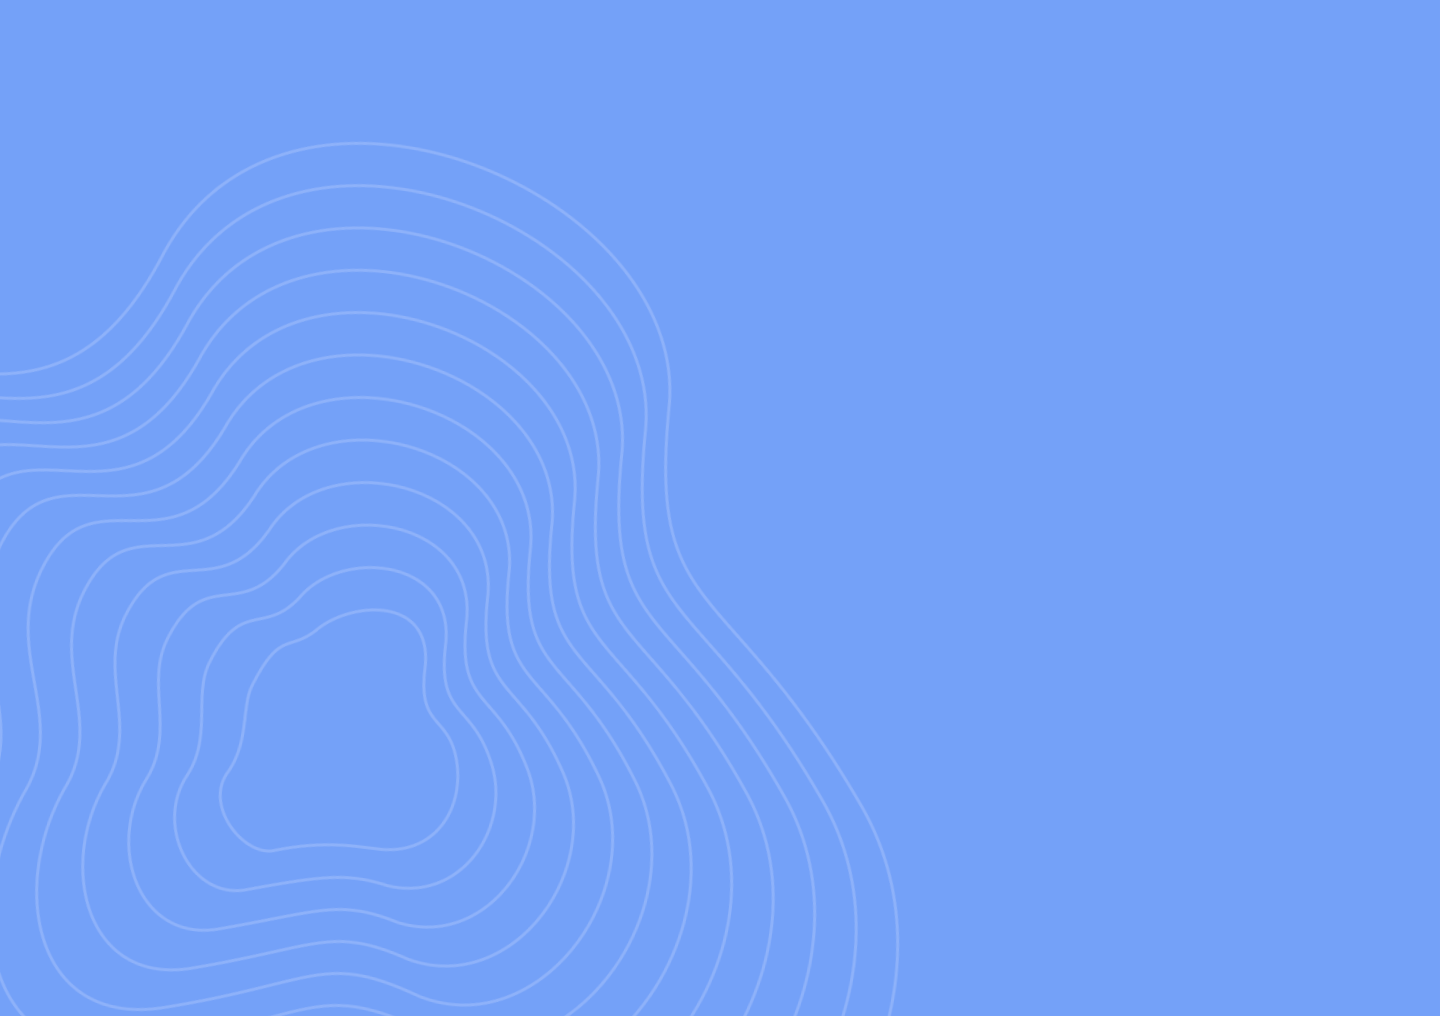
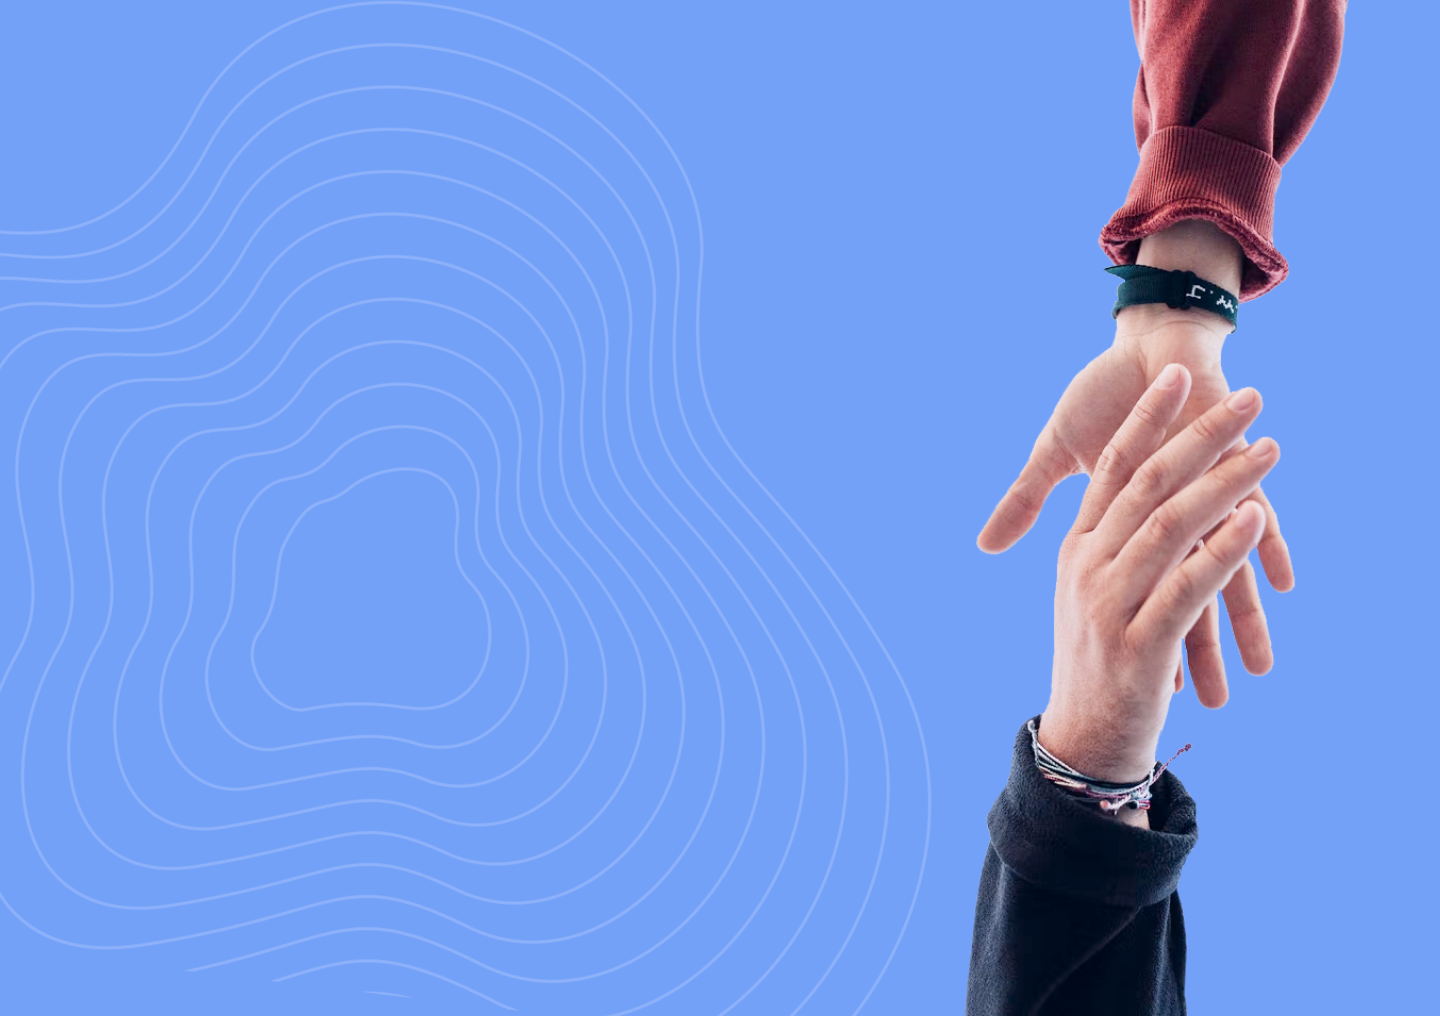
add booking form

diff --git a/src/components/Banner/Banner.jsx b/src/components/Banner/Banner.jsx
@@ -1,30 +1,34 @@
 import React from 'react';
-import Hands from '../../assets/images/Hands.png';
 import {BannerStyled} from "./Banner.styled";
 import Button from "../ui/Button";
 import {Link} from "react-router-dom";
+import Hands from "../../assets/images/Hands.png";
+
 
 const Banner = () => {
     return (
         <BannerStyled>
             <div className="banner-wrapper">
-                <div>
-                    <h1>Your reliable tool to find Therapists online</h1>
-                    <h4>- Book an online or in person consultation within few steps.</h4>
-                    <h4>- See availabilities and background of any specialist.</h4>
-                    <h4>- Renew your prescriptions.</h4>
-                    <h4>- Take advantage of our database with useful resources.</h4>
-                </div>
-                <div className="banner-buttons">
-                    <div>
-                        <Link to="/doctors">
-                            <Button>Match with doctor</Button>
-                        </Link>
+                <div style={{color: 'white'}} className="banner-wrapper__text">
+                    <h1 >Your reliable tool to find Therapists online</h1>
+                    <p>- Book an online or in person consultation within few steps.</p>
+                    <p>- See availabilities and background of any specialist.</p>
+                    <p>- Renew your prescriptions.</p>
+                    <p>- Take advantage of our database with useful resources.</p>
+                    <div className="banner-buttons">
+                        <div>
+                            <Link to="/doctors">
+                                <Button>Match with doctor</Button>
+                            </Link>
+                        </div>
+                        <div>
+                            <Button>Discover More</Button>
+                        </div>
                     </div>
-                    <div>
-                        <Button>Discover More</Button>
-                    </div>
                 </div>
+            </div>
+            <div className={"banner-wrapper__image"}>
+                <img src={Hands} alt={"alt"}/>
             </div>
         </BannerStyled>
     );

diff --git a/src/Scenes/Doctors/Doctors.jsx b/src/Scenes/Doctors/Doctors.jsx
@@ -7,6 +7,7 @@ import MainLayout from "../../Layout/MainLayout";
 import {DoctorsStyled} from "./Doctors.styled";
 import Search from "../../components/Search/Search";
 import SideBar from "../../components/SideBar/Filter";
+import SideLayout from "../../Layout/SideLayout";
 
 
 const Doctors = () => {
@@ -81,14 +82,13 @@ const Doctors = () => {
     }
 
     const filterBySpec = (selectedSpec, event) => {
-
             setSelectedSpec(selectedSpec);
 
     }
 
 
     return (
-        <MainLayout>
+        <SideLayout>
             <DoctorsStyled>
                 <div className="sidebar-wrapper">
                     <div className="sidebar">
@@ -97,18 +97,23 @@ const Doctors = () => {
                         </SideBar>
                     </div>
                     <div className="sidebar__content">
-                        <Sorting value={selectedSort}
-                                 onChange={sortDoctors}
-                                 defaultValue="Sort By"
-                                 options={sortingOption}/>
-                        {
-                            sortedAndSearchDoctors.length ? <DoctorList doctors = {sortedAndSearchDoctors}/> : <h2>Not Found</h2>
-                        }
+                        <div className="list-wrapper">
+                            <div className="list-filter">
+                                <h3>Contact Therapists around you</h3>
+                                <Sorting value={selectedSort}
+                                         onChange={sortDoctors}
+                                         defaultValue="Sort By"
+                                         options={sortingOption}/>
+                            </div>
+                            {
+                                sortedAndSearchDoctors.length ? <DoctorList doctors = {sortedAndSearchDoctors}/> : <h2>Not Found</h2>
+                            }
+                        </div>
                         <Pagination page={page}  totalPages = {totalPages} changePage={changePage}/>
                     </div>
                 </div>
             </DoctorsStyled>
-        </MainLayout>
+        </SideLayout>
     );
 };
 

diff --git a/src/Scenes/DoctorPage/DoctorPage.jsx b/src/Scenes/DoctorPage/DoctorPage.jsx
@@ -3,18 +3,22 @@ import MainLayout from "../../Layout/MainLayout";
 import {generatePath, Link, useHistory, useNavigate, useParams} from "react-router-dom";
 
 import {fetchDoctorsList} from "../../api/doctorsApi";
-import WhiteButton from "../../components/ui/WhiteButton";
-import BlueButton from "../../components/ui/BlueButton";
 import {FontAwesomeIcon} from "@fortawesome/react-fontawesome";
 import {faStar} from "@fortawesome/free-solid-svg-icons";
-import {DoctorsStyled} from "../Doctors/Doctors.styled";
 import {DoctorPageStyled} from "./DoctorPage.styled";
+import {Button, Space, DatePicker, Modal, TimePicker, Input, Result} from "antd";
+import moment from "moment";
+import AppointmentModal from "../../components/AppointmentModal/AppointmentModal";
+
 
 const arrowRight = <FontAwesomeIcon icon={faStar} />;
 
 const DoctorPage = () => {
     const {id} = useParams();
-    const [doctorPage,setDoctorPage] = useState('')
+    const [doctorPage,setDoctorPage] = useState('');
+    const [showCalendar, setShowCalendar] = useState(false);
+
+
     useEffect(() => {
         async function fetchDoctor() {
             const res = await fetchDoctorsList();
@@ -24,7 +28,6 @@ const DoctorPage = () => {
         fetchDoctor();
     }, [id]);
 
-    console.log(doctorPage)
     return (
         <MainLayout>
             <DoctorPageStyled className={"doctor-wrapper"}>
@@ -43,7 +46,8 @@ const DoctorPage = () => {
                     <div className="doctor__text">
                         <h2>{doctorPage.firstName} {doctorPage.lastName}</h2>
                         <div className="doctor__btns">
-                            <BlueButton>Book Appointment</BlueButton>
+                                <Button onClick={() => setShowCalendar(true)}>Book Appointment</Button>
+                                <AppointmentModal visible={showCalendar} onCancel = {() => setShowCalendar(false)}/>
                         </div>
                         <div className={"doctor__description"}>
                             <p>

diff --git a/src/components/AppointmentModal/AppointmentModal.jsx b/src/components/AppointmentModal/AppointmentModal.jsx
@@ -1,0 +1,50 @@
+import React, {useState} from 'react';
+import {Button, DatePicker, Input, Modal, Space, TimePicker} from "antd";
+import moment from "moment";
+import {Formik,Field, Form} from "formik";
+import errors from "babel-loader/lib/Error";
+import touched from "babel-loader/lib/Error";
+
+
+const AppointmentModal = ({visible, onCancel}) => {
+    const [dateSelected, setDateSelected] = useState('');
+    const [timeSelected, setTimeSelected] = useState('');
+    const [notes, setNotes] = useState('');
+
+    const appointment = {
+        date: dateSelected,
+        time: timeSelected,
+        notes: notes
+    }
+
+    function sendAppointment(){
+
+    }
+    return (
+        <Modal visible={visible} footer={null} title={"Book Appointment"} onCancel={() => onCancel()}>
+            <Formik>
+                <Form>
+                    <Space direction={"vertical"}>
+                        <label>Select Date of your appointment</label>
+                        <DatePicker onChange = {(date, dateString) => (
+                            setDateSelected(dateString)
+                        )}/>
+                        <label>Select Time of your appointment</label>
+                        <TimePicker.RangePicker
+                            defaultOpenValue={moment('00:00:00', 'HH:mm:ss')}
+                            onChange={(time, timeString) => (
+                                setTimeSelected(timeString)
+                            )}/>
+                        <label>Additional Notes</label>
+                        <Input.TextArea />
+                        <Button onClick={() =>
+                            (console.log("click"))
+                        }>Submit</Button>
+                    </Space>
+                </Form>
+            </Formik>
+        </Modal>
+    );
+};
+
+export default AppointmentModal;

diff --git a/src/Layout/SideLayout.jsx b/src/Layout/SideLayout.jsx
@@ -6,24 +6,14 @@ import Filter from "../components/SideBar/Filter";
 
 const StyledSideLayout = styled.div`
   background-color:  #f5f5f5;
-
+  
+  
   .sidebar-wrapper {
     display: grid;
-    grid-column-gap: 20px;
-    grid-template-columns: 1fr 3fr;
-    grid-template-areas: 
-    "header  header"
-    "sidebar content"
-    "footer  footer";
   }
   .sidebar{
     grid-area: sidebar;
     background-color: white;
-  }
-  
-  .sidebar__content {
-    grid-area: content;
-    padding: 20px;
   }
   
 `
@@ -33,7 +23,6 @@ const SideLayout = (props) => {
         <StyledSideLayout>
             <Header/>
             <div className="sidebar-wrapper">
-                <Filter/>
                 <div className="sidebar__content">
                     {props.children}
                 </div>

diff --git a/src/components/Banner/Banner.styled.jsx b/src/components/Banner/Banner.styled.jsx
@@ -2,25 +2,32 @@ import styled from "styled-components";
 import background from "../../assets/images/background.png"
 
 export const BannerStyled = styled.div`
-  background-image: url(${background});
-  background-size: contain;
+  background-color: #74A1F8;
   color: white;
   display: flex;
-  justify-content: space-around;
+  justify-content: center;
+  width: 100%;
+  
+  h1 {
+    color: white;
+  }
   
   .banner-buttons {
     display: flex;
     gap: 24px;
-    padding-top: 95px;
   }
   
   .banner-wrapper {
     padding: 20px 30px;
     display: flex;
-    flex-direction: column;
+    flex-direction: row;
+  }
+  .banner-wrapper  {
+    font-size: 18px;
   }
   
   img {
-    max-height: 100%;
+    height: 400px;
+    object-fit: contain;
   }
 `

diff --git a/src/components/Questions/Questions.styled.jsx b/src/components/Questions/Questions.styled.jsx
@@ -1,12 +1,8 @@
 import styled from "styled-components";
 
 export const QuestionsStyled = styled.div`
-  display: flex;
-  flex-direction: column;
-  justify-content: center;
-  align-items: center;
   padding: 30px 0;
-  overflow: hidden;
+  
   .list__title {
     text-align: center;
     padding: 20px 0;
@@ -20,7 +16,6 @@ export const QuestionsStyled = styled.div`
     display: flex;
     flex-direction: column;
     justify-content: center;
-    align-items: stretch;
     width: 800px;
     padding-bottom: 30px;
   }
@@ -46,7 +41,7 @@ export const QuestionsStyled = styled.div`
   }
 
   .item-content {
-    overflow: hidden;
+    overflow: auto;
     max-height: 0;
     transition: all 0.5s cubic-bezier(0, 1, 0, 1);
     box-sizing: border-box;

diff --git a/src/components/SideBar/Filter.jsx b/src/components/SideBar/Filter.jsx
@@ -2,7 +2,7 @@ import React, {useState} from 'react';
 import {FilterStyled} from "./Filter.styled";
 
 
-const SideBar = ({onChange}) => {
+const SideBar = (props,{onChange}) => {
 
     const [selectedFilter, setSelectedFilter] = useState(false);
     const [spec, setSpec] = useState('');
@@ -55,6 +55,7 @@ const SideBar = ({onChange}) => {
                 <h3>Filters</h3>
                 <div className="sidebar-filter__list">
                     <div className="sidebar__search">
+                        {props.children}
                     </div>
                     <div className="sidebar-filter__profile">
                         <h4>Specification</h4>

diff --git a/src/Layout/MainLayout.jsx b/src/Layout/MainLayout.jsx
@@ -4,16 +4,16 @@ import Header from "../components/Header/Header";
 import Footer from "../components/Footer/Footer";
 
 const StyledMainLayout = styled.div`
-  display: flex;
-  flex-direction: column;
-  overflow: hidden;
+  width: 100vw;
+  height: 100%;
   
   .content {
-    width: 100%;
+    width: 100vw;
     display: flex;
     flex-direction: column;
-    height: calc(100vh - 160px);
-    overflow: hidden;
+    align-items: center;
+    height: calc(100vh - 80px);
+    overflow: auto;
   }
 `
 

diff --git a/src/components/DoctorList/DoctorList.jsx b/src/components/DoctorList/DoctorList.jsx
@@ -9,11 +9,6 @@ const DoctorList = ({doctors}) => {
     return (
         <DoctorListStyled>
             <div>
-                <div className="list-wrapper">
-                    <div className="list-filter">
-                        <h3>Contact Therapists around you</h3>
-                    </div>
-                </div>
                 <div className="cards-list">
                     {doctors && doctors.map((doctor) => (
                         <DoctorCard doctor={doctor} key={doctor.id}/>

diff --git a/src/Scenes/Doctors/Doctors.styled.jsx b/src/Scenes/Doctors/Doctors.styled.jsx
@@ -17,6 +17,10 @@ export const DoctorsStyled = styled.div`
       height: 100%;
       background-color: #fafafa;
     }
+  
+    .sidebar-filter {
+      height: 100%;
+    }
 
     .sidebar__content {
       grid-area: content;
@@ -24,4 +28,10 @@ export const DoctorsStyled = styled.div`
       height: 100vh;
       overflow: auto;
     }
+  .list-filter {
+    padding-bottom: 20px;
+    display: flex;
+    justify-content: space-between;
+    align-items: center;
+  }
 `

diff --git a/public/index.html b/public/index.html
@@ -2,6 +2,7 @@
 <html lang="en">
 <head>
     <meta charset="UTF-8">
+    <link rel="stylesheet" href="https://cdnjs.cloudflare.com/ajax/libs/antd/4.22.8/antd.min.css" integrity="sha512-iOT5HSqFWSZXl9hh4FR611IAgH2waKnC4EZWS0qG9eLnEVbgLfLRKyFnEPg87hijj6Ae/xWpRbX69syPz0yDcg==" crossorigin="anonymous" referrerpolicy="no-referrer" />
     <title>Haven</title>
 </head>
 <body>
